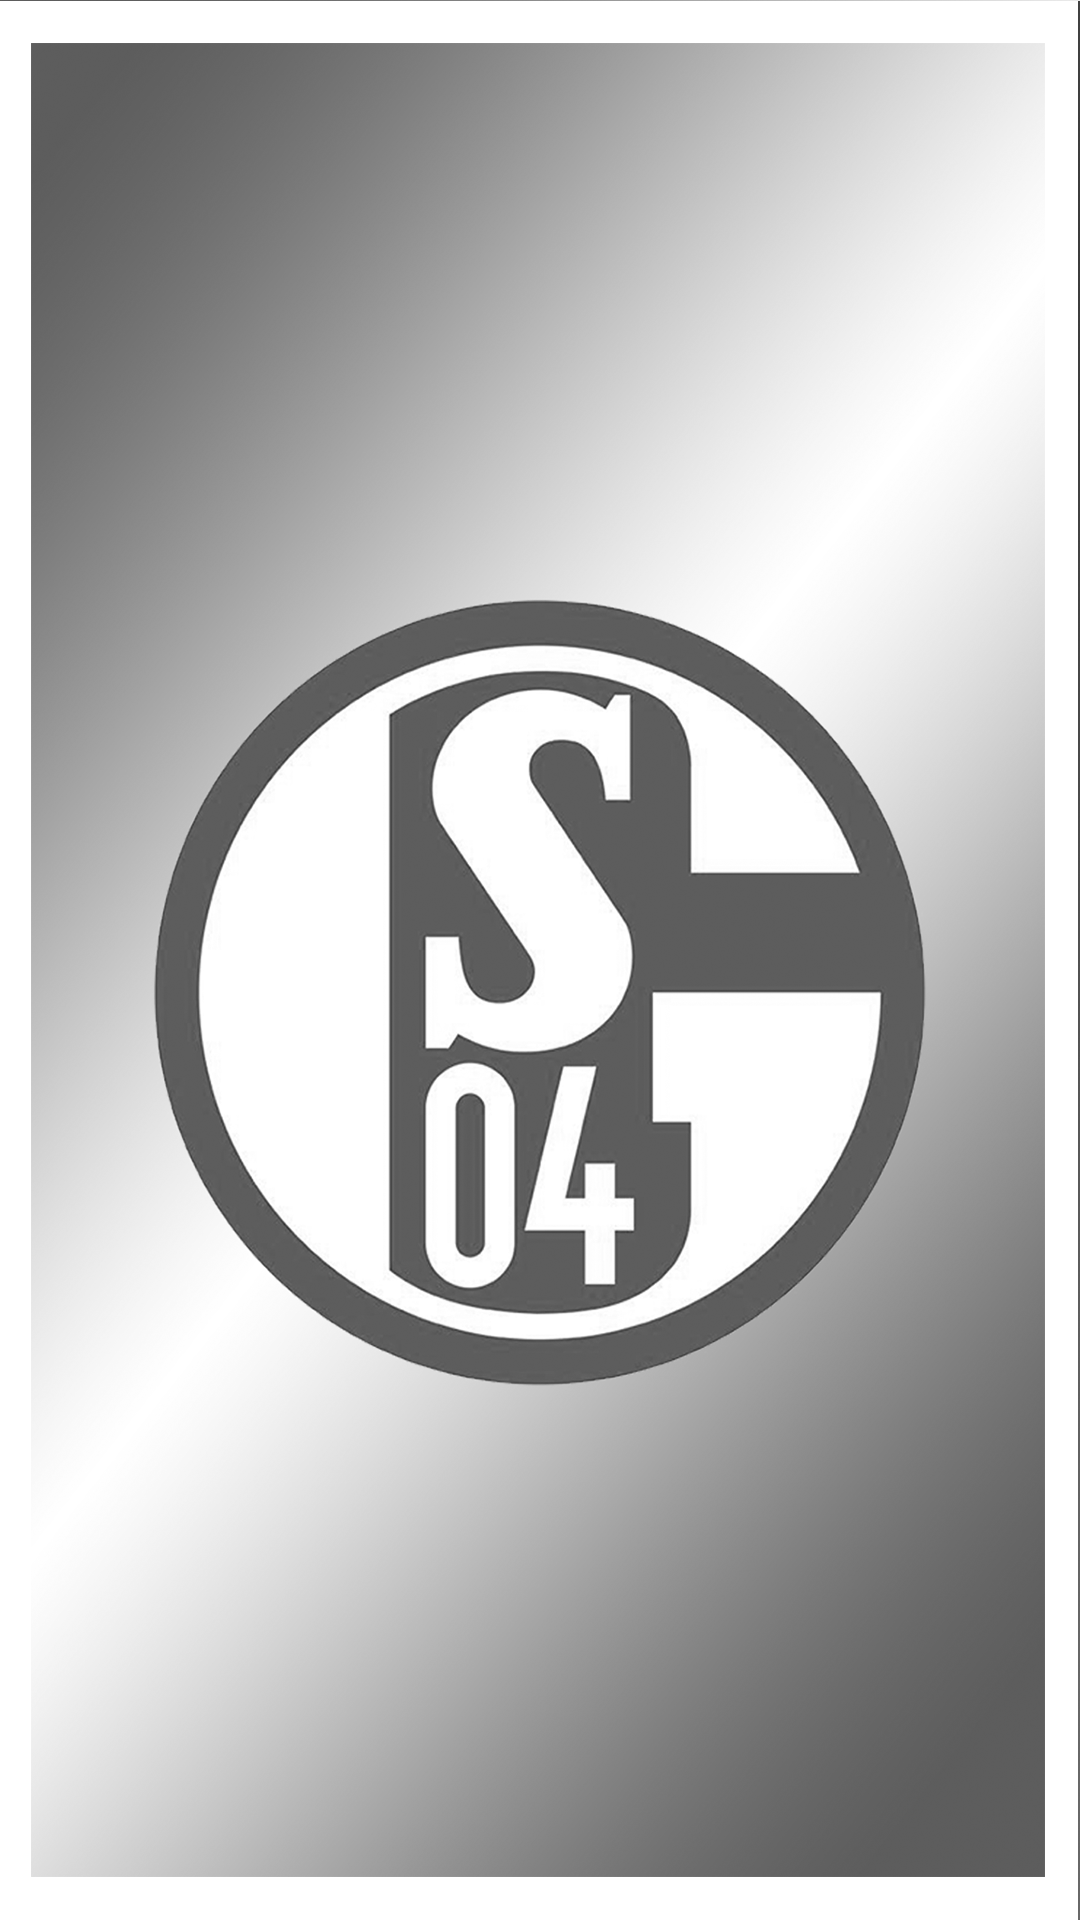
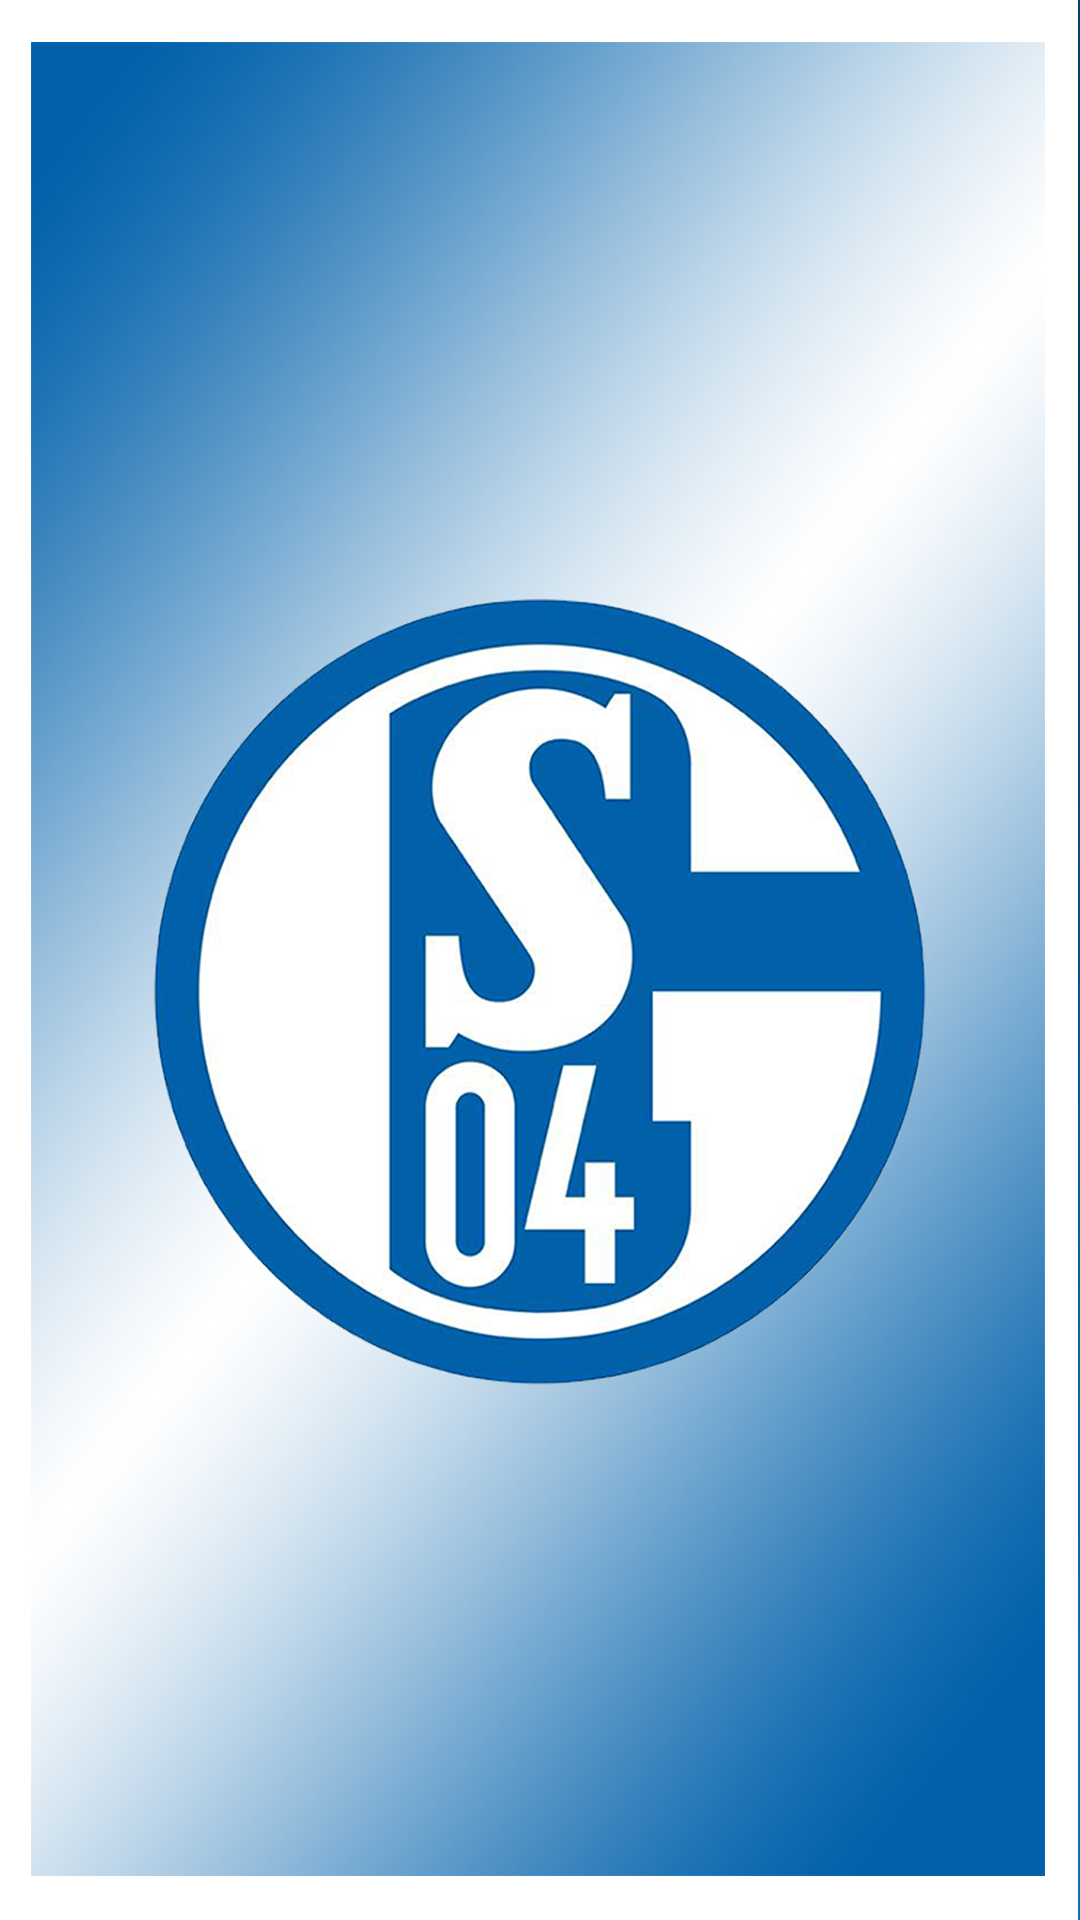
fix

diff --git a/src/app/changebackground/changebackground.component.html b/src/app/changebackground/changebackground.component.html
@@ -1,7 +1,10 @@
 <div class="wholePage" 
   [class.blue-bg]="blackBGselected"
   [class.black-bg]="blackBGselected"
-  [class.orange-bg]="orangeBGselected">
+  [class.orange-bg]="orangeBGselected"
+  [class.schalke-bg]="schalkeBGselected"
+  [class.dortmund-bg]="dortmundBGselected"
+  [class.bayern-bg]="bayernBGselected">
     <app-header></app-header>
 
     <div class="back" style="width: fit-content; margin-top: 5px;" (click)="goToAccount()">
@@ -81,7 +84,7 @@
 
       <span *ngIf="schalkeBGselected==true">
     <img
-      src="../../assets/images/app-bg-schalke-selected.png"
+      src="../../assets/images/app-bg-schalke-selected-grey.png"
       width="90vw"
       height="160vw"
       style="border-radius: 5%; margin-right: 8px;"
@@ -90,7 +93,7 @@
   <span *ngIf="schalkeBGselected==false">
     <img
     (click)="toggleSchalke()"
-      src="../../assets/images/app-bg-schalke.png"
+      src="../../assets/images/app-bg-schalke-grey.png"
       width="90vw"
       height="160vw"
       style="border-radius: 5%; margin-right: 8px;"
@@ -98,7 +101,7 @@
   </span>
   <span *ngIf="dortmundBGselected==true">
     <img
-      src="../../assets/images/app-bg-dortmund-selected.png"
+      src="../../assets/images/app-bg-dortmund-selected-grey.png"
       width="90vw"
       height="160vw"
       style="border-radius: 5%; margin-right: 8px; margin-left: 8px;"
@@ -107,7 +110,7 @@
   <span *ngIf="dortmundBGselected==false">
     <img
     (click)="toggleDortmund()"
-      src="../../assets/images/app-bg-dortmund.png"
+      src="../../assets/images/app-bg-dortmund-grey.png"
       width="90vw"
       height="160vw"
       style="border-radius: 5%; margin-right: 8px; margin-left: 8px;"
@@ -115,7 +118,7 @@
   </span>
   <span *ngIf="bayernBGselected==true">
     <img
-      src="../../assets/images/app-bg-bayern-selected.png"
+      src="../../assets/images/app-bg-bayern-selected-grey.png"
       width="90vw"
       height="160vw"
       style="border-radius: 5%; margin-left: 8px;"
@@ -124,7 +127,7 @@
   <span *ngIf="bayernBGselected==false">
     <img
     (click)="toggleBayern()"
-      src="../../assets/images/app-bg-bayern.png"
+      src="../../assets/images/app-bg-bayern-grey.png"
       width="90vw"
       height="160vw"
       style="border-radius: 5%; margin-left: 8px;"
